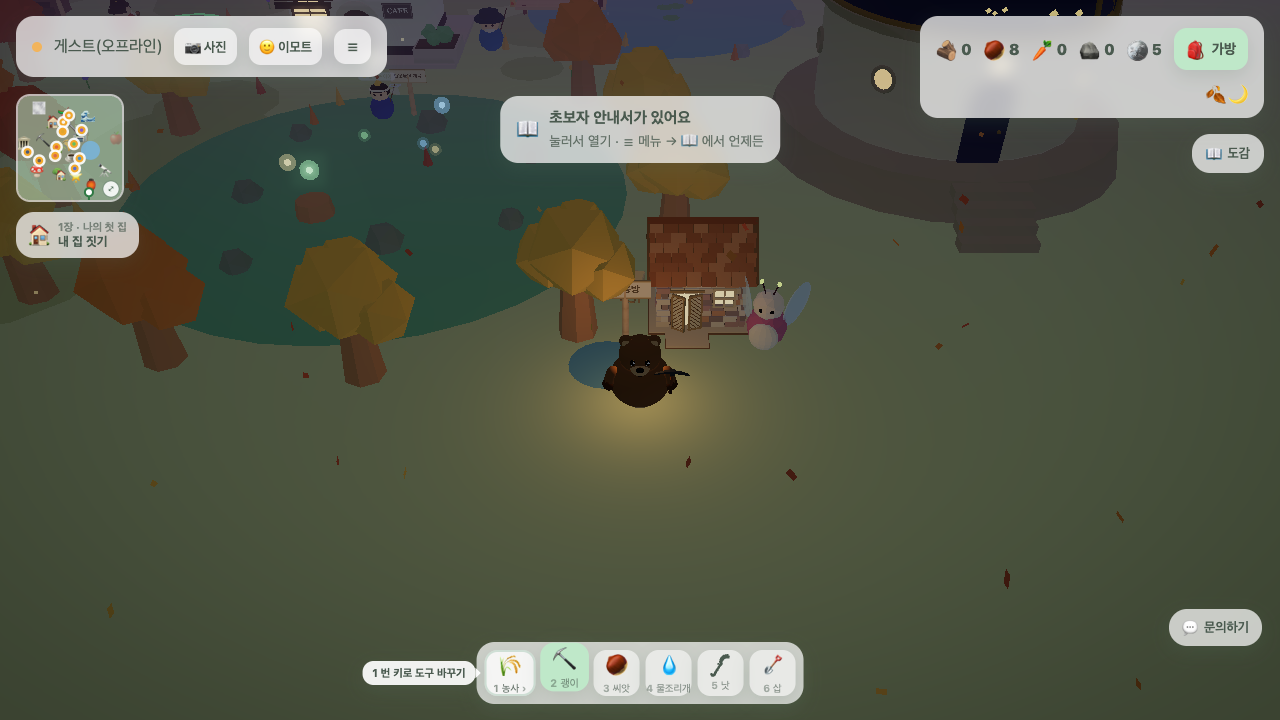
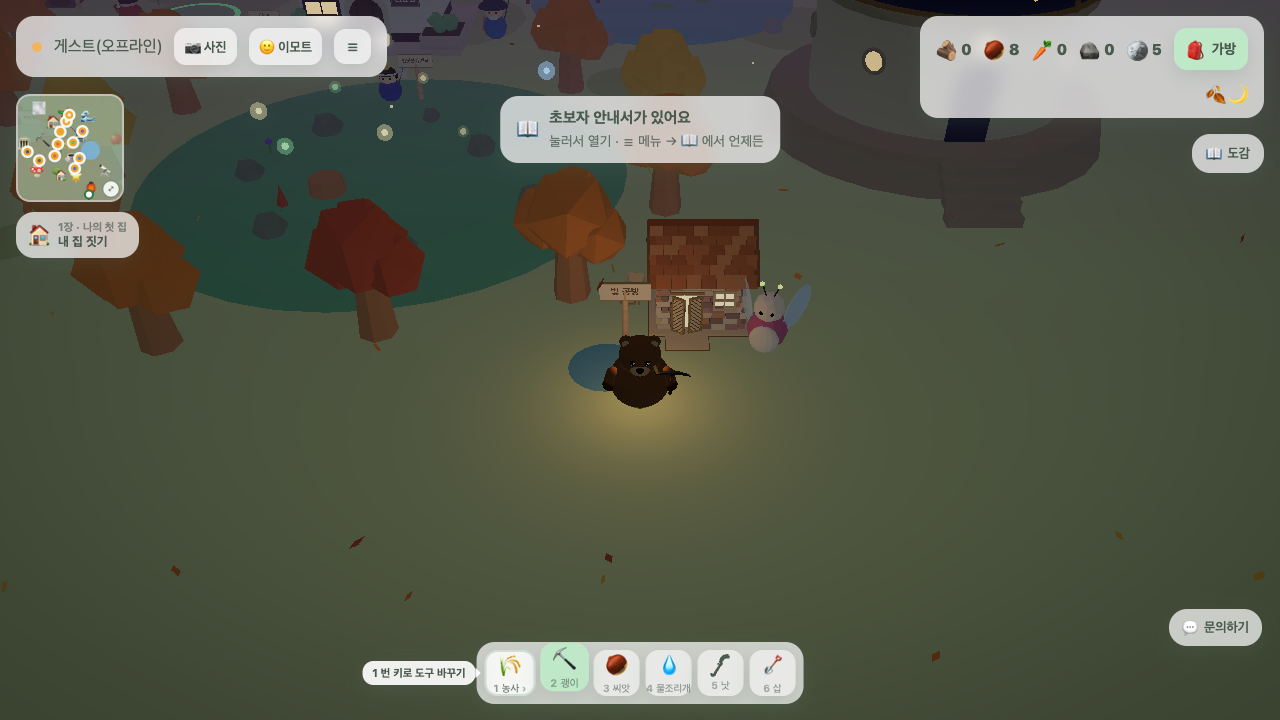
feat: nudge light workshop a little further south below the treeline

diff --git a/dev/active/light-workshop/light-workshop-context.md b/dev/active/light-workshop/light-workshop-context.md
@@ -48,4 +48,4 @@
   - 계곡 링(최대 반경 9.6)+반폭 1.3, 천문대 기단 5.7+반폭+틈 0.9 를 테스트가 검사
 - 📍 같은 날 한 번 더 남쪽으로: (17, 21.6) → **(17.6, 25.5)** 천문대 계단 왼쪽 빈터(사용자 "더 밑으로"). 계곡 링 나무 2그루(−18.5°·14.3°)가 4 안에 들어와 glade.js 가 비운다
 - 🗺 미니맵·전체 지도 지명 `{ ico: '🏮', name: '빛 공방', pri: 1 }` + 영어 'Light Workshop' — 🔭 천문대와 겹치지 않음(캡처 확인)
-- 📍 2026-10-09 최종(?): **(16.5, 32)** 계곡 남동쪽 나무숲 가장자리(사용자 "더더더 밑으로, 나무 쪽으로"). 계곡 링 나무는 오두막에 박히는 것(<2.8)·연못 위(LIGHT_WORKSHOP_POND.r+0.6)만 비우고 14.3°·47° 두 그루는 옆·뒤에 남겨 숲 느낌 · 마을 걷기 경계 42 안
+- 📍 2026-10-09: (16.5, 32) → "조금만 더 밑으로" **(16.5, 33.5)** — 링 나무 두 그루는 여전히 남음(3.0~5.6), 걷기 경계까지 2.2 여유 · 계곡 남동쪽 나무숲 가장자리(사용자 "더더더 밑으로, 나무 쪽으로"). 계곡 링 나무는 오두막에 박히는 것(<2.8)·연못 위(LIGHT_WORKSHOP_POND.r+0.6)만 비우고 14.3°·47° 두 그루는 옆·뒤에 남겨 숲 느낌 · 마을 걷기 경계 42 안
